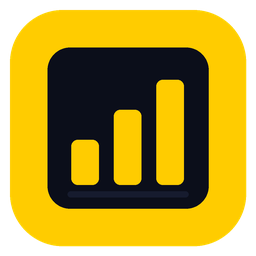
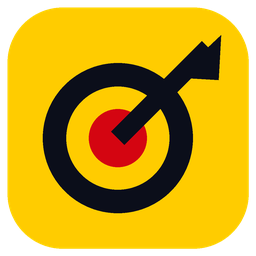
Troca o icone do aplicativo por um alvo com detalhe vermelho
A marca passa a ser um alvo com a flecha no centro, que fala de meta
batida — o assunto do sistema. O vermelho fica no miolo, onde significa
o centro da meta, e nao onde o app usa vermelho para dizer abaixo da
meta.

Regenera tambem a tela de abertura com a mesma marca, e guarda o
gerador em tools/gerar_icone.py para o desenho poder ser refeito. O
gerador precisa do Pillow, que fica fora do requirements.txt de
proposito: o aplicativo nao depende dele para rodar.

Claude-Session: https://claude.ai/code/session_01JYcNt4RYNduoWdQP7AbQaG

diff --git a/tools/gerar_icone.py b/tools/gerar_icone.py
@@ -1,0 +1,88 @@
+"""Gera os arquivos visuais do aplicativo: o icone do .exe e a tela de
+abertura.
+
+Nao faz parte do programa e nao roda junto com ele — e so pra
+regenerar os arquivos de `ui/assets/` quando o desenho mudar. Precisa
+do Pillow instalado (`pip install Pillow`), que de proposito nao esta
+no requirements.txt: o app nao depende dele em tempo de execucao.
+
+    python tools/gerar_icone.py
+
+A marca e um alvo com a flecha no centro: fala de meta batida, que e o
+assunto do sistema. As cores sao as mesmas da interface (os tokens
+--yellow, --red e --bg do ui/style.css). O vermelho fica no miolo, onde
+significa "o centro da meta" — e nao no lugar onde o app usa vermelho
+pra dizer "abaixo da meta".
+"""
+
+import os
+
+from PIL import Image, ImageDraw, ImageFont
+
+AMARELO = (255, 204, 0)
+VERMELHO = (212, 5, 17)
+ESCURO = (11, 14, 26)
+CINZA = (148, 163, 184)
+CLARO = (228, 231, 236)
+
+B = 1024
+DESTINO = os.path.join(os.path.dirname(os.path.dirname(os.path.abspath(__file__))), "ui", "assets")
+
+
+def desenhar_alvo():
+    img = Image.new("RGBA", (B, B), (0, 0, 0, 0))
+    d = ImageDraw.Draw(img)
+    d.rounded_rectangle([30, 30, B - 30, B - 30], radius=220, fill=AMARELO)
+
+    cx, cy = int(B * 0.46), int(B * 0.54)
+    for raio, cor in ((300, ESCURO), (206, AMARELO), (116, VERMELHO)):
+        d.ellipse([cx - raio, cy - raio, cx + raio, cy + raio], fill=cor)
+
+    # Flecha saindo do centro pro canto superior direito.
+    d.line([cx, cy, B - 190, 190], fill=ESCURO, width=76)
+    d.polygon([(B - 140, 140), (B - 150, 320), (B - 320, 310)], fill=ESCURO)
+    return img
+
+
+def fonte(tamanho):
+    for caminho in (
+        "/usr/share/fonts/truetype/dejavu/DejaVuSans-Bold.ttf",
+        "C:/Windows/Fonts/segoeuib.ttf",
+    ):
+        if os.path.isfile(caminho):
+            return ImageFont.truetype(caminho, tamanho)
+    return ImageFont.load_default()
+
+
+def desenhar_splash(marca):
+    largura, altura = 460, 260
+    img = Image.new("RGB", (largura, altura), ESCURO)
+    d = ImageDraw.Draw(img)
+    # Faixa amarela no topo, como a barra do aplicativo.
+    d.rectangle([0, 0, largura, 6], fill=AMARELO)
+
+    icone = marca.resize((92, 92), Image.LANCZOS)
+    img.paste(icone, (largura // 2 - 46, 50), icone)
+
+    def centralizado(y, texto, tamanho, cor):
+        f = fonte(tamanho)
+        d.text(((largura - d.textlength(texto, font=f)) / 2, y), texto, font=f, fill=cor)
+
+    centralizado(160, "Score Card", 30, CLARO)
+    centralizado(200, "Abrindo o aplicativo...", 15, CINZA)
+    return img
+
+
+def main():
+    marca = desenhar_alvo()
+    # Os seis tamanhos que o Windows usa: sem o de 16, a barra de
+    # titulo e a lista de arquivos mostram uma reducao borrada.
+    tamanhos = [(256, 256), (128, 128), (64, 64), (48, 48), (32, 32), (16, 16)]
+    marca.save(os.path.join(DESTINO, "scorecard.ico"), format="ICO", sizes=tamanhos)
+    marca.resize((256, 256), Image.LANCZOS).save(os.path.join(DESTINO, "scorecard.png"))
+    desenhar_splash(marca).save(os.path.join(DESTINO, "splash.png"))
+    print("gerados em", DESTINO)
+
+
+if __name__ == "__main__":
+    main()
